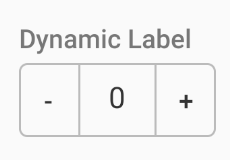
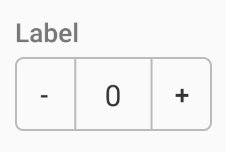
fix: fixes input view vertical alignment at Counter component

diff --git a/sample/src/main/kotlin/com/natura/android/sample/components/CounterActivity.kt b/sample/src/main/kotlin/com/natura/android/sample/components/CounterActivity.kt
@@ -26,7 +26,7 @@ class CounterActivity : AppCompatActivity() {
         binding.counterSubtractDisable.inputValue = 5
 
         binding.counterSemix.size = Counter.SEMIX_SIZE
-        binding.counterSemix.label = "Dynamic Label"
+        binding.counterSemix.label = "Label"
 
         supportActionBar?.title = "Counter"
         supportActionBar?.setHomeButtonEnabled(true)
